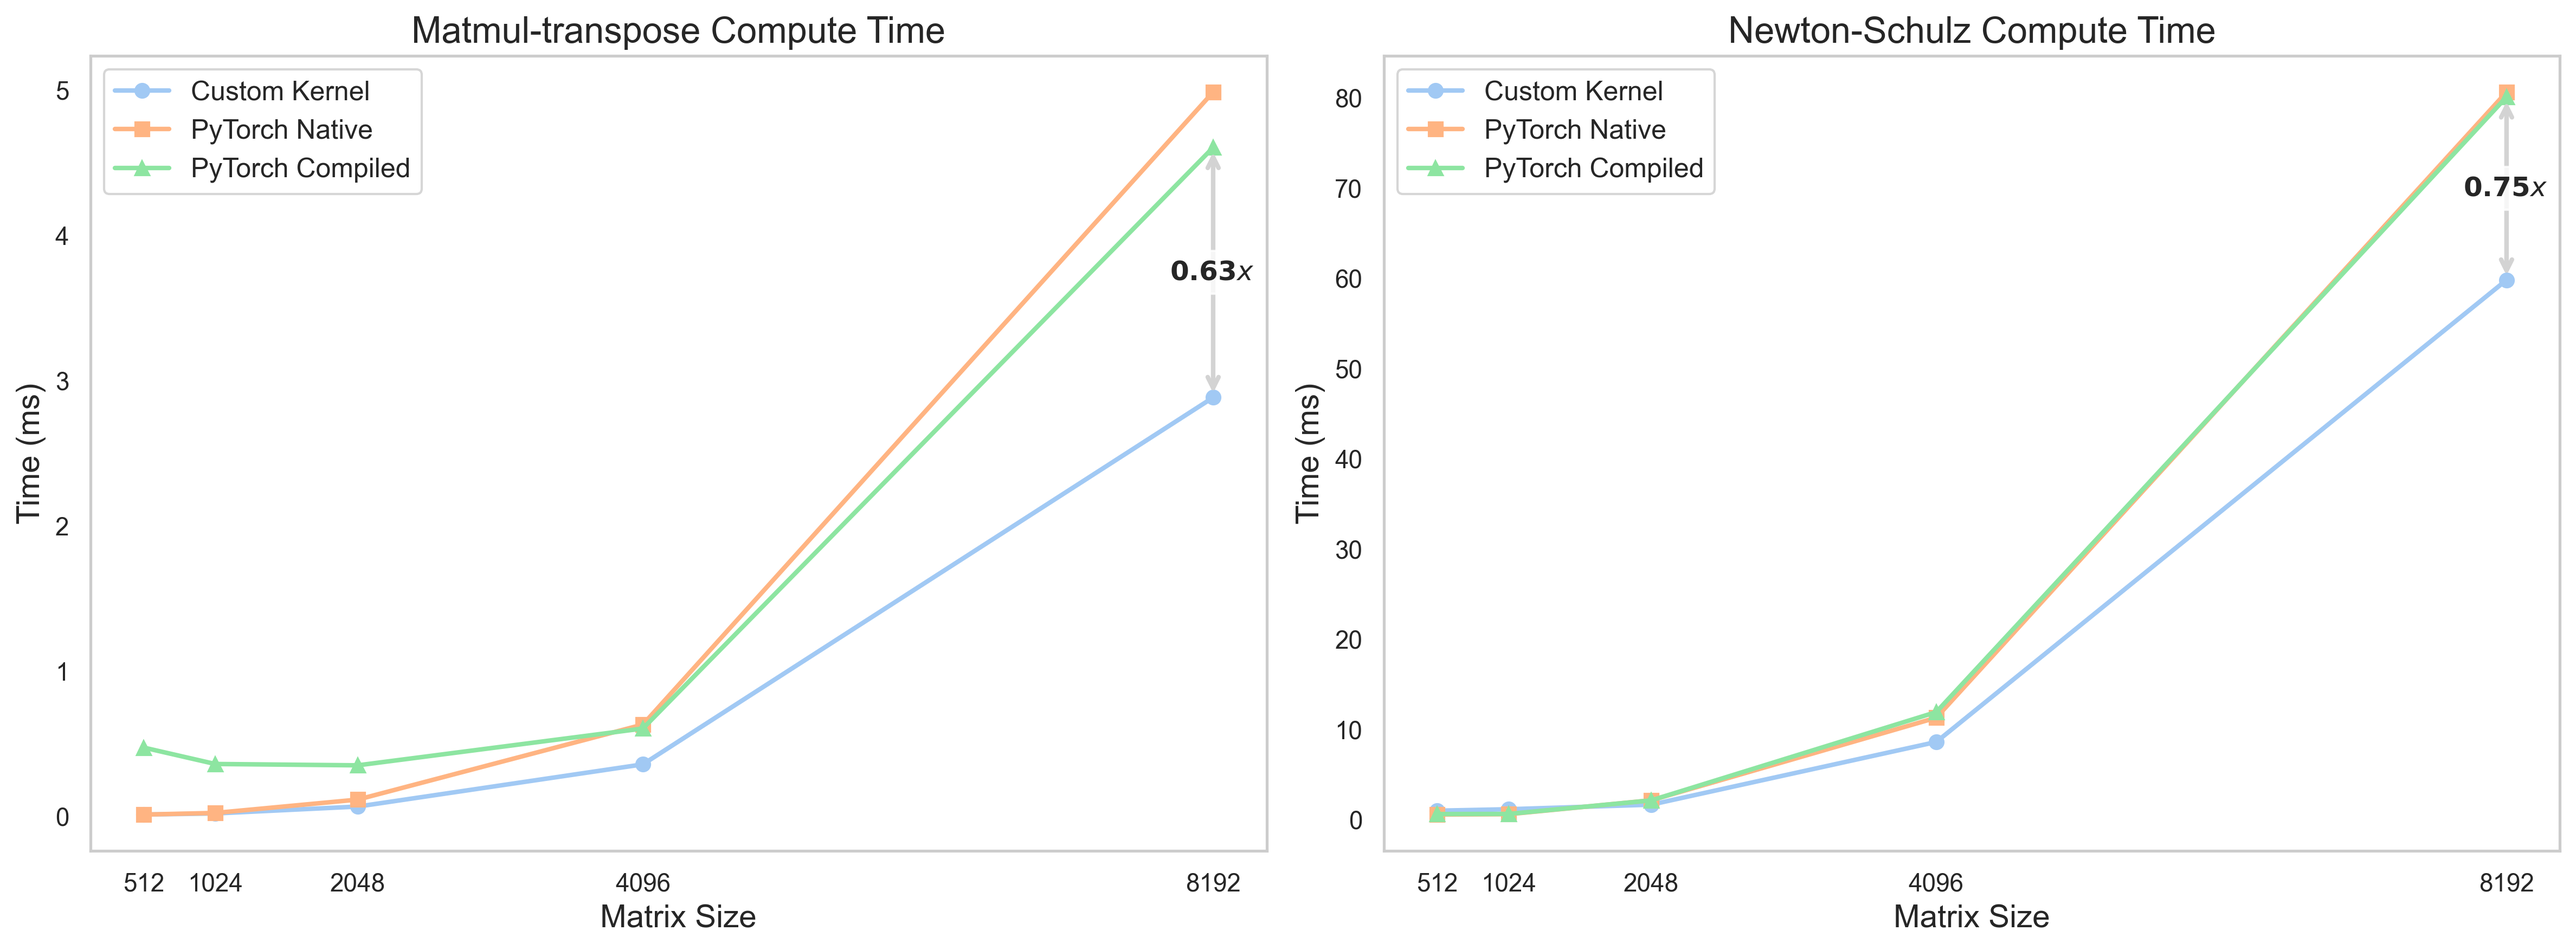
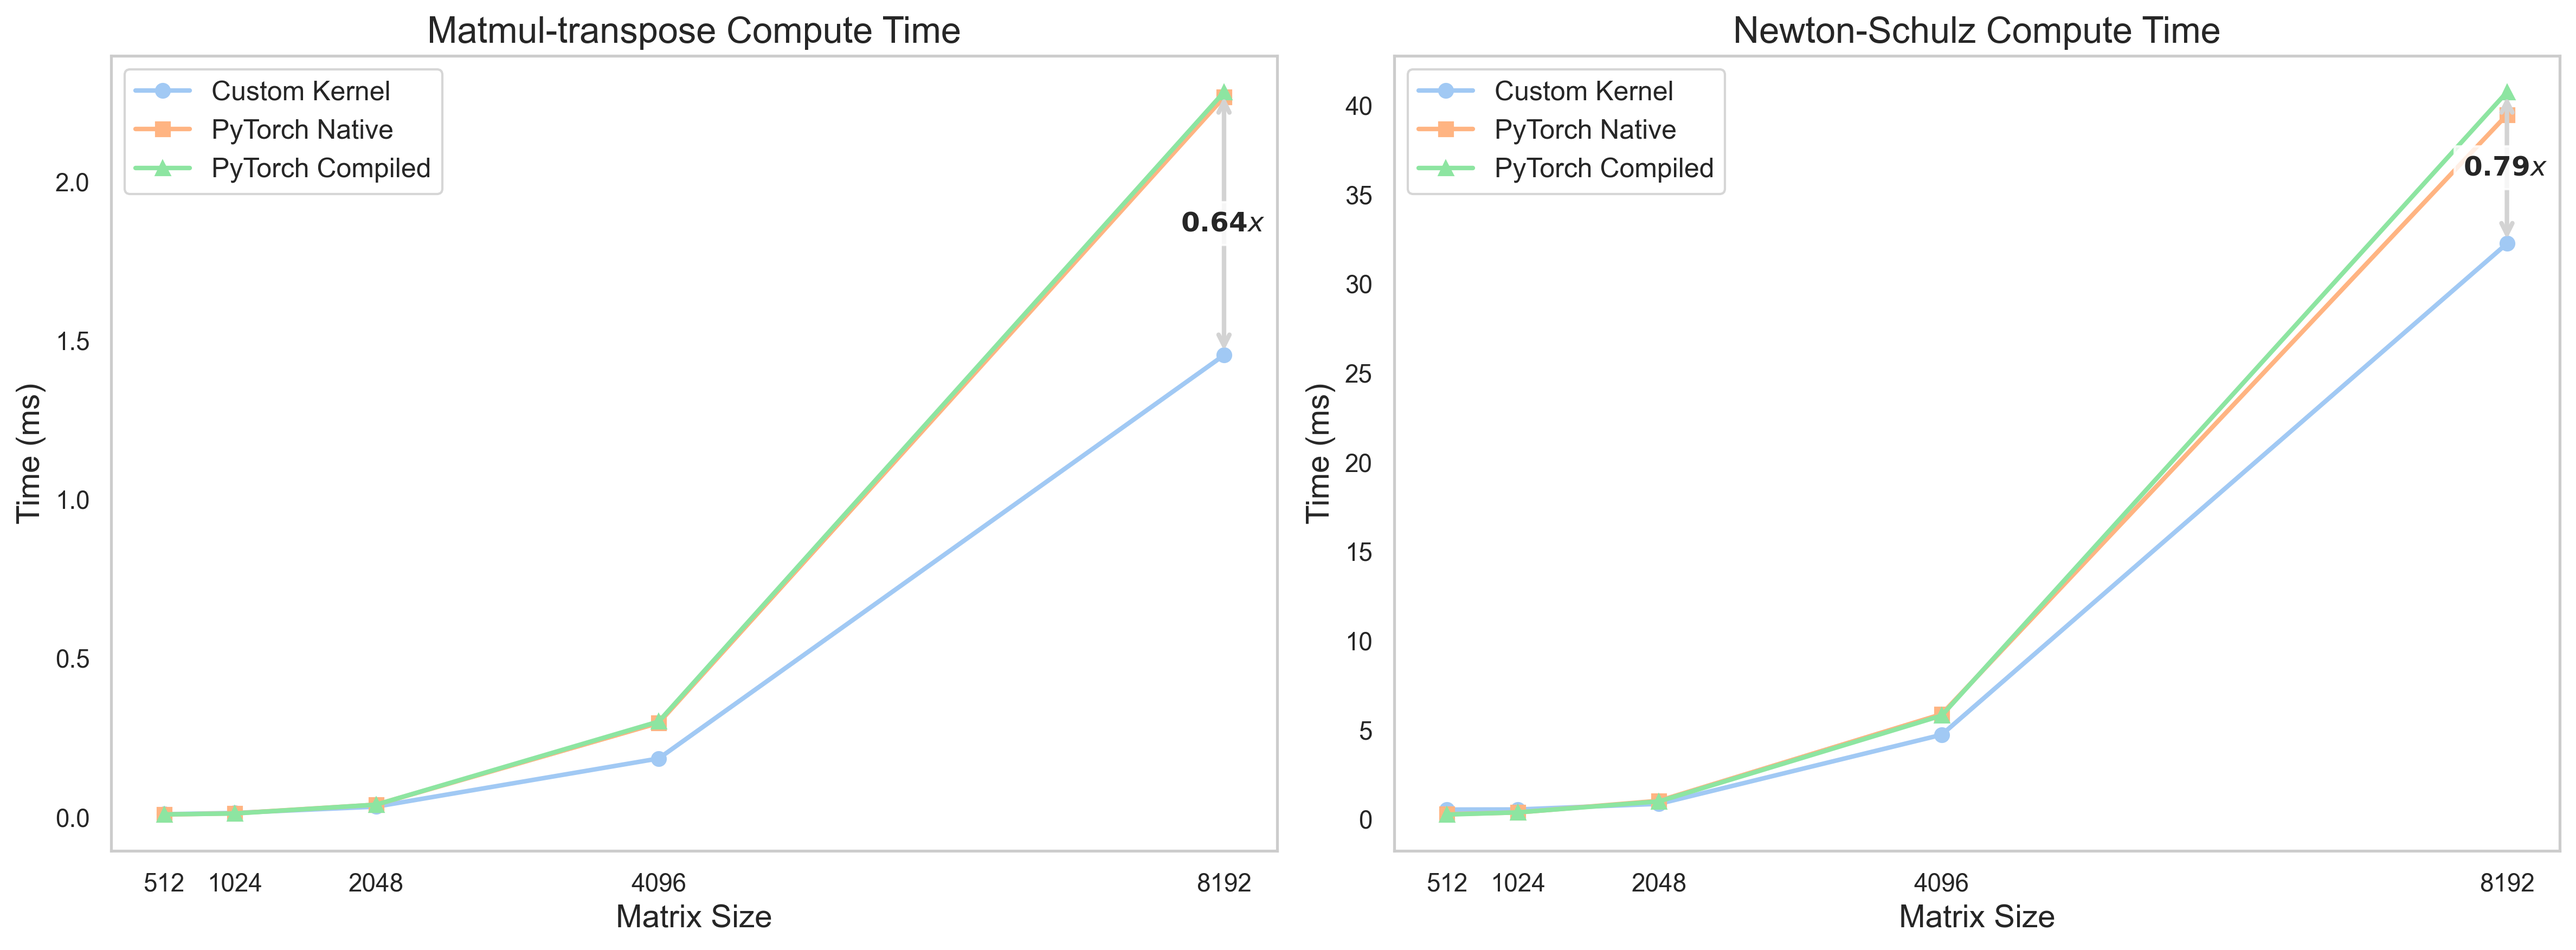
update benchmark for TC

diff --git a/README.md b/README.md
@@ -74,22 +74,23 @@ We test the compute time of `matmul_transpose` as well as the adapted Newton-Sch
 We list the detailed benchmark result (ms) for `matmul_transpose` as follows:
 | device | dim  | flash  | torch  | compiled |
 |--------|------|--------|--------|----------------|
-| H800   | 1024 | 0.0119 | 0.0148 | 0.3401         |
-| H800   | 2048 | 0.0329 | 0.0471 | 0.3574         |
-| H800   | 4096 | 0.1837 | 0.2953 | 0.3801         |
-| H800   | 8192 | 1.4585 | 2.3065 | 2.2372         |
-| H20    | 1024 | 0.0163 | 0.0276 | 0.2599         |
-| H20    | 2048 | 0.0750 | 0.1578 | 0.2610         |
-| H20    | 4096 | 0.5023 | 1.0343 | 1.0674         |
-| H20    | 8192 | 3.9194 | 7.9320 | 8.0873         |
-| A100   | 1024 | 0.0188 | 0.0224 | 0.3594         |
-| A100   | 2048 | 0.0663 | 0.1143 | 0.3502         |
-| A100   | 4096 | 0.3568 | 0.6308 | 0.6036         |
-| A100   | 8192 | 2.8829 | 4.9855 | 4.6039         |
-| 4090 | 1024 | 0.0210 | 0.0212 | 0.1853         |
-| 4090 | 2048 | 0.0778 | 0.1112 | 0.2253         |
-| 4090 | 4096 | 0.4888 | 0.8441 | 0.9223         |
-| 4090 | 8192 | 3.3982 | 6.8085 | 7.0354         |
+| H800 | 1024 | 0.0124 | 0.0112 | 0.0107 |
+| H800 | 2048 | 0.0322 | 0.0384 | 0.0384 |
+| H800 | 4096 | 0.1838 | 0.2955 | 0.3000 |
+| H800 | 8192 | 1.4528 | 2.2643 | 2.2804 |
+| H20 | 1024 | 0.0164 | 0.0275 | 0.0275 |
+| H20 | 2048 | 0.0746 | 0.1588 | 0.1587 |
+| H20 | 4096 | 0.5068 | 1.0431 | 1.0431 |
+| H20 | 8192 | 3.9265 | 7.9691 | 7.9508 |
+| A100 | 1024 | 0.0191 | 0.0228 | 0.0232 |
+| A100 | 2048 | 0.0689 | 0.1166 | 0.1164 |
+| A100 | 4096 | 0.3733 | 0.6644 | 0.6649 |
+| A100 | 8192 | 2.9815 | 5.1604 | 5.2858 |
+| 4090 | 1024 | 0.0208 | 0.0213 | 0.0208 |
+| 4090 | 2048 | 0.0823 | 0.1098 | 0.1095 |
+| 4090 | 4096 | 0.5249 | 0.8535 | 0.8546 |
+| 4090 | 8192 | 3.5689 | 6.7631 | 6.7869 |
+
 
 
 ## Acknowledgement
